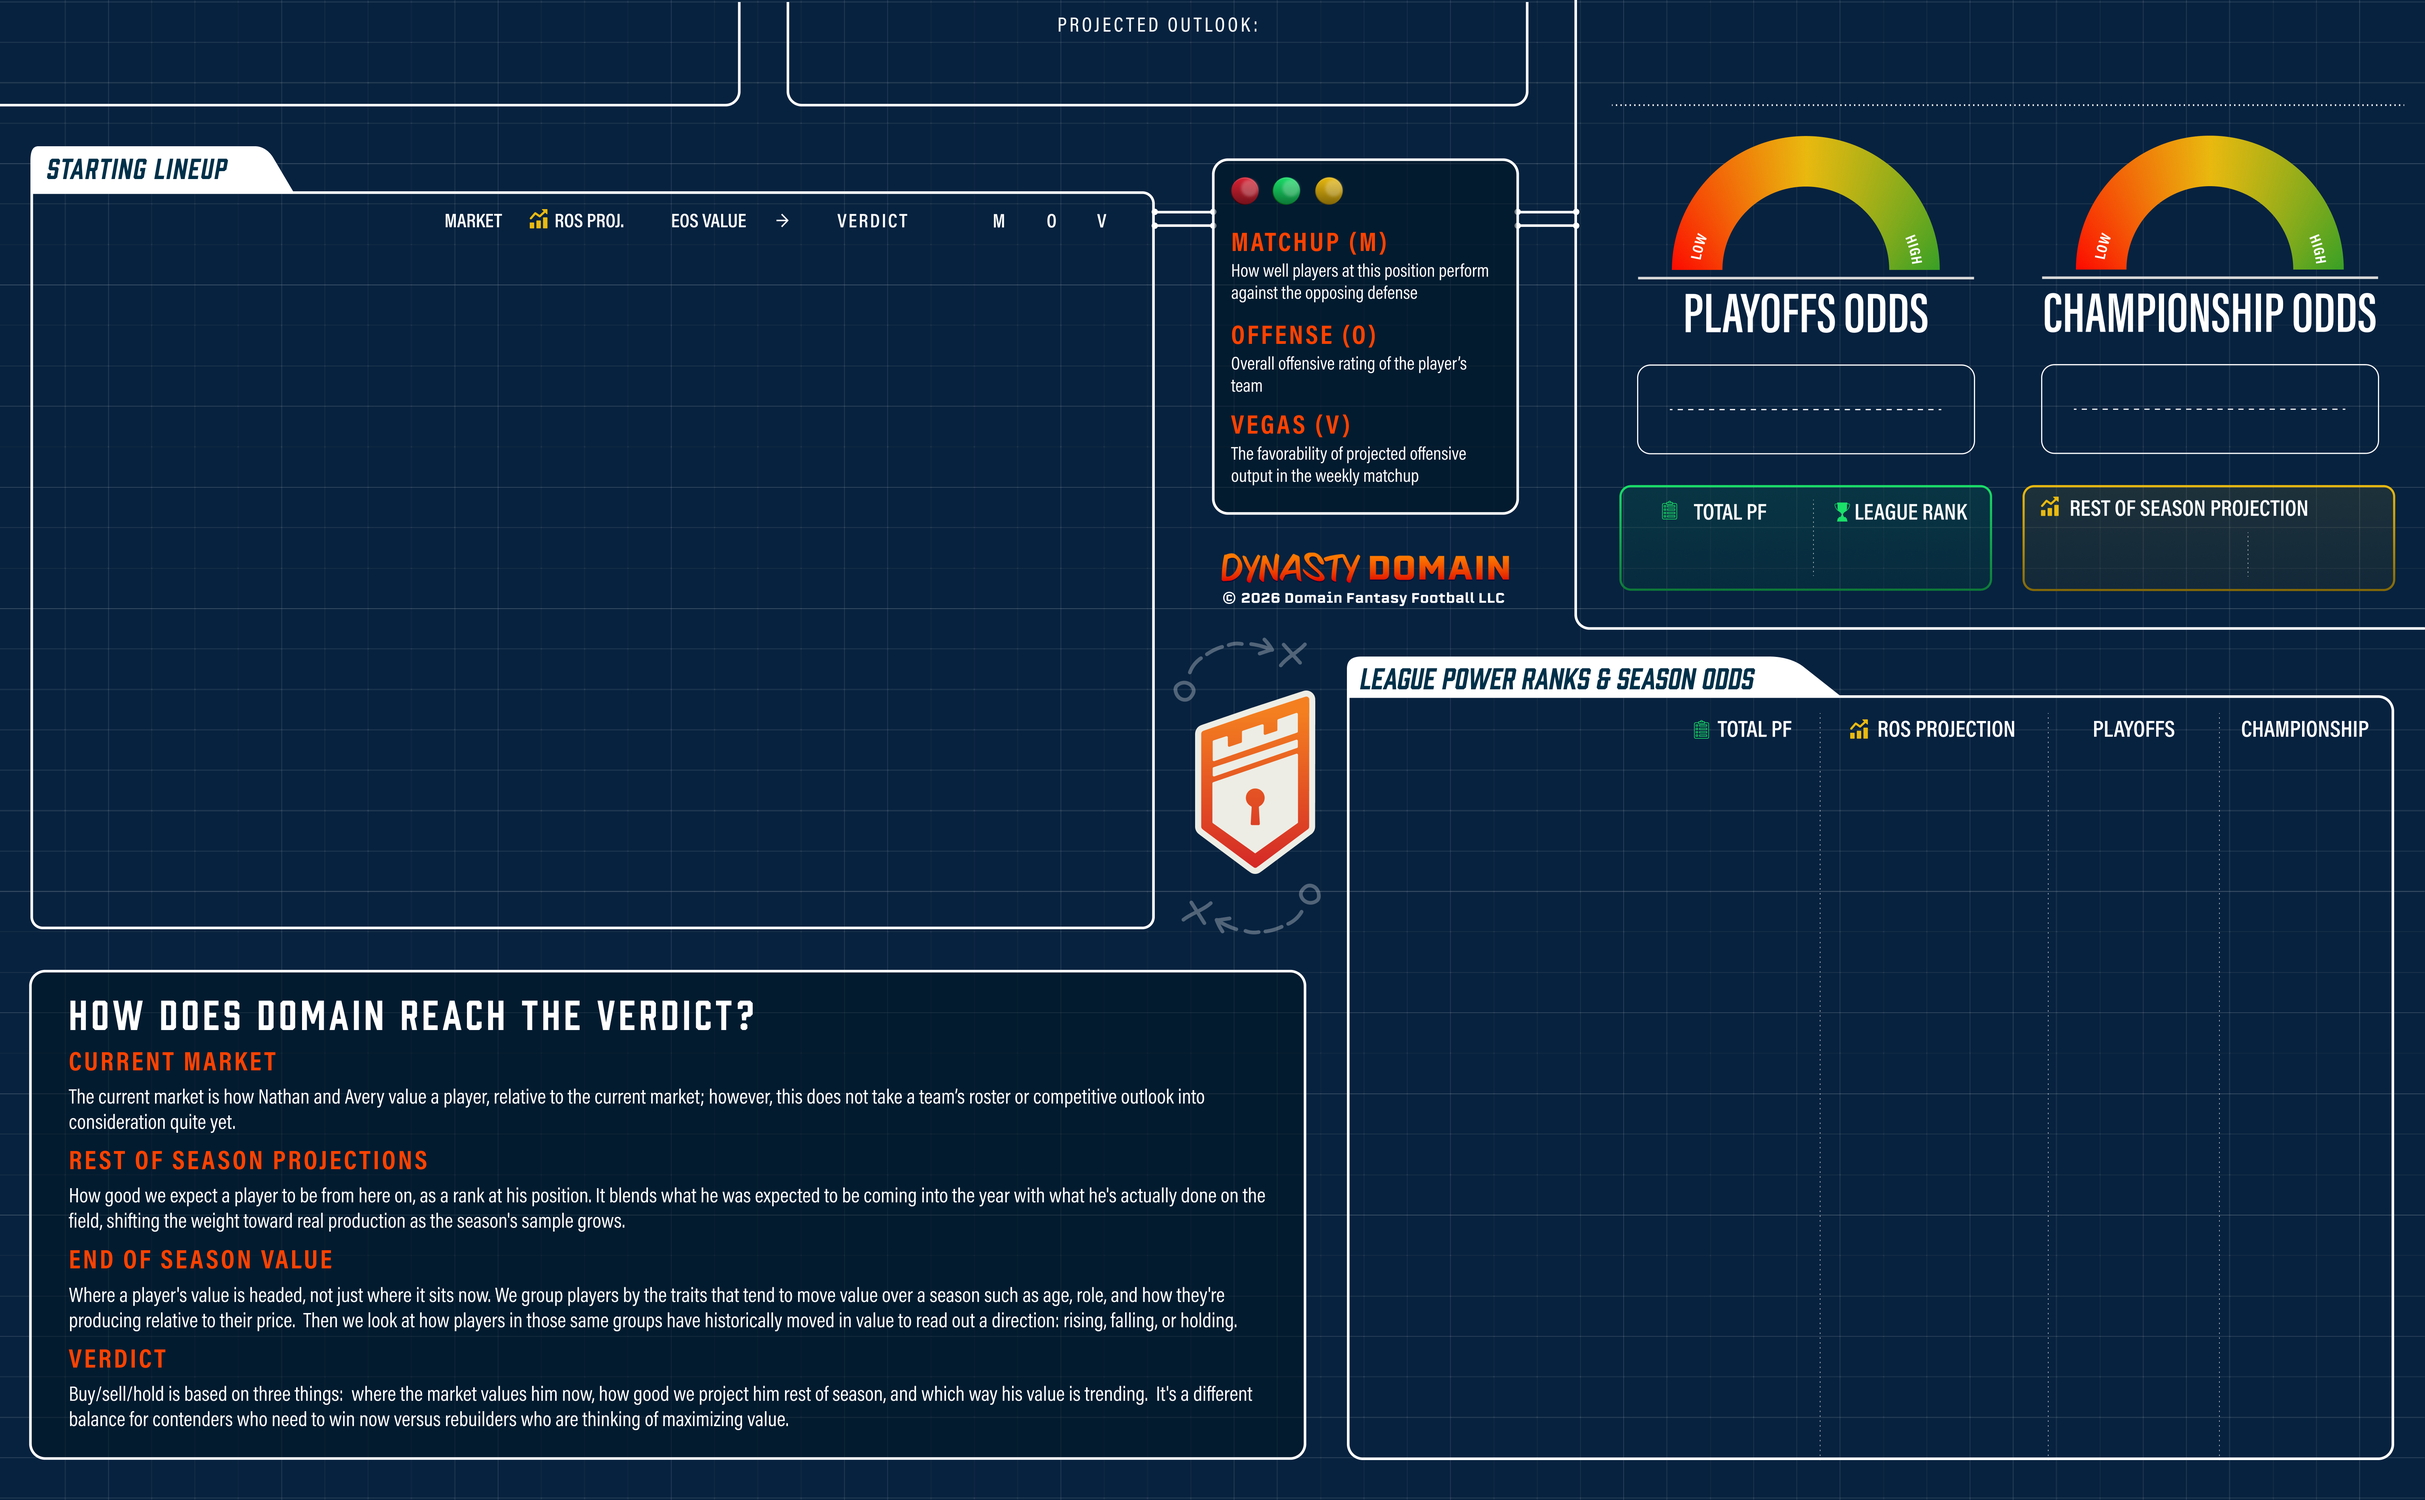
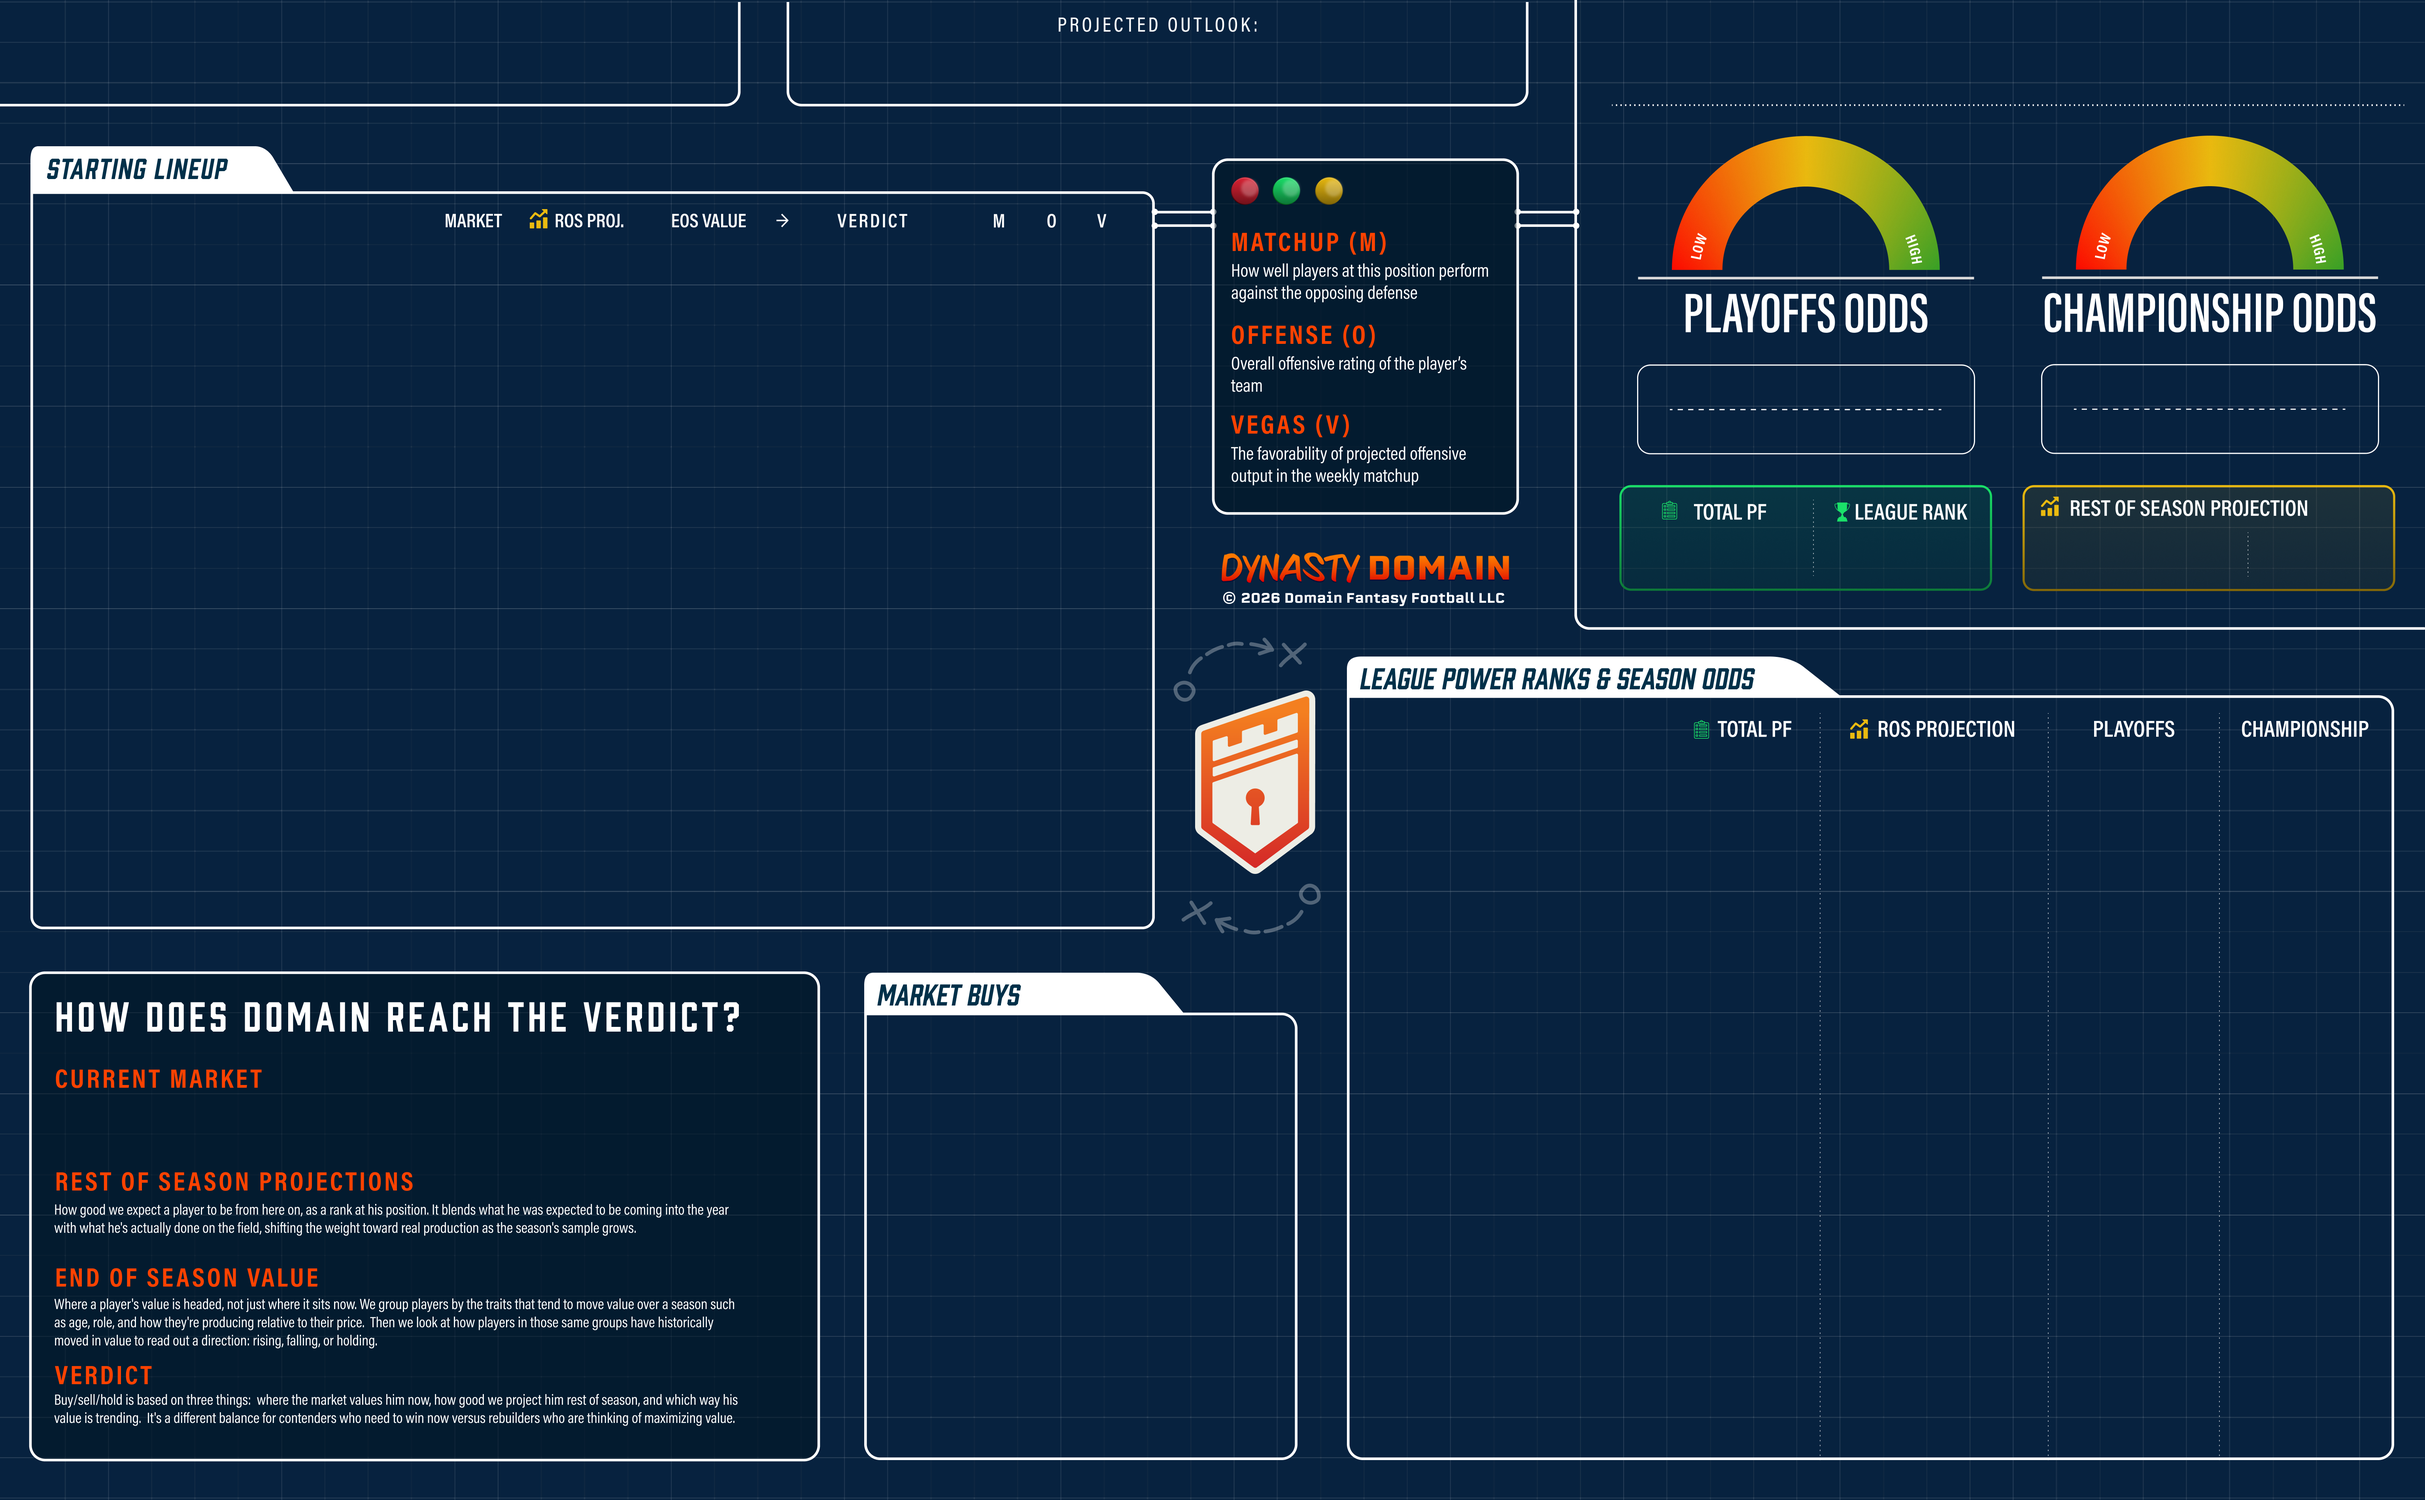
Market Buys

Changed region(s): [[0.0311, 0.653, 0.4982, 0.9639], [0.3425, 0.6219, 0.4982, 0.6841], [0.2491, 0.7152, 0.4982, 0.7462]]

diff --git a/src/InSeasonInfinite/InSeasonInfinite.tsx b/src/InSeasonInfinite/InSeasonInfinite.tsx
@@ -85,6 +85,17 @@ export interface PowerRankRow {
   isUserTeam?: boolean;
 }
 
+/** A "Market Buys" card: a random buy-tier player who is not on the roster. */
+export interface MarketBuy {
+  playerName: string;
+  playerSleeperBotId: number | null;
+  /** NFL position; drives the card colour and the "RB - VIKINGS" line. */
+  position: NflPosition;
+  teamAbbreviation: string | null;
+  /** Team nickname ("Vikings"); null renders the position alone. */
+  teamName: string | null;
+}
+
 export interface ChartSeries {
   position: NflPosition;
   values: (number | null)[];
@@ -113,6 +124,8 @@ export interface InSeasonInfinitePreviewProps {
   rosProjection: number | null;
   rosProjectionRank: number | null;
   powerRanks: PowerRankRow[];
+  /** Up to three cards; fewer (or none) when the week's pool is short. */
+  marketBuys: MarketBuy[];
   /**
    * Legacy position-value chart. The final design fills the verdict panel with copy and no
    * longer reserves a slot for it, so leave this unset: drawing it would overlay the paragraphs.
@@ -649,6 +662,68 @@ function VerdictChart({ chart }: { chart: ChartData }) {
   );
 }
 
+// ─── Verdict copy ───────────────────────────────────────────────────────────
+
+// The "How does Domain reach the verdict?" panel is baked into the background except
+// for this paragraph: the approved Current Market copy exists in Figma only at the old
+// 52.98px size (STATIC → "Current Market copy — HIDDEN") and the copy fonts are not
+// installed where the export runs, so it is set here in the web font at the re-flowed
+// 37.98px size. Bake it and delete this once that Figma node can be resized.
+const CURRENT_MARKET_COPY =
+  "The current market is how Nathan and Avery value a player, relative to the current market; however, this does not take a team’s roster or competitive outlook into consideration quite yet.";
+
+function VerdictCopy() {
+  return (
+    <p className={s.para} style={{ left: 137, top: 2805, width: 1735, fontFamily: F.acCond, fontSize: 37.98, color: C.white }}>
+      {CURRENT_MARKET_COPY}
+    </p>
+  );
+}
+
+// ─── Market buys ────────────────────────────────────────────────────────────
+
+// Three cards down the "Market Buys" panel: card x 2272, first top 2634, pitch 350. The
+// "+" badge overhangs the card's left edge by 34px. Chrome follows the player's position
+// colour; the team logo sits behind the headshot at 15%, cropped the way the Figma image
+// fill is (112.27% wide, offset -12.27%). Every tint is the position gradient at 20%.
+const MB = { x: 2272, top: 2634, pitch: 350, w: 923, h: 262.752, radius: 33.863, stroke: 4.724, badge: 95.532 };
+const MB_FILL: Record<NflPosition, string> = {
+  QB: "linear-gradient(180deg, rgba(219,35,53,0.2) 0%, rgba(117,19,28,0.2) 100%)",
+  RB: "linear-gradient(180deg, rgba(0,177,255,0.2) 0%, rgba(0,106,153,0.2) 100%)",
+  WR: "linear-gradient(180deg, rgba(26,224,105,0.2) 0%, rgba(14,122,57,0.2) 100%)",
+  TE: "linear-gradient(180deg, rgba(234,186,16,0.2) 0%, rgba(132,105,9,0.2) 100%)",
+};
+
+function MarketBuyCard({ buy, top }: { buy: MarketBuy; top: number }) {
+  const x = MB.x;
+  return (
+    <>
+      <div className={s.abs} style={{ left: x, top, width: MB.w, height: MB.h, borderRadius: MB.radius, overflow: "hidden", background: MB_FILL[buy.position] }}>
+        <div className={s.abs} style={{ left: 0, top: 4.21, width: 226.539, height: 254.33, overflow: "hidden", opacity: 0.15 }}>
+          <img src={teamLogos.get(buy.teamAbbreviation ?? "") ?? nflLogo} alt="" style={{ position: "absolute", left: "-12.27%", top: 0, width: "112.27%", height: "100%", objectFit: "contain" }} />
+        </div>
+        <img
+          className={s.img}
+          src={sleeperHeadshot(buy.playerSleeperBotId)}
+          onError={({ currentTarget }) => { currentTarget.onerror = null; currentTarget.src = HEADSHOT_FALLBACK; }}
+          alt=""
+          style={{ left: 53.056, top: 4.21, width: 346.967, height: 254.33, objectFit: "contain" }}
+        />
+        <div className={s.abs} style={{ inset: 0, borderRadius: MB.radius, border: `${MB.stroke}px solid ${POS_COLOR[buy.position]}`, boxSizing: "border-box" }} />
+      </div>
+      <Txt x={x + 344.68} y={top + 76.06} h={52} align="left" font={F.prohibition} size={67.096} upper>{buy.playerName}</Txt>
+      <Txt x={x + 414.34} y={top + 151.32} h={51.37} align="left" font={F.acXCond} size={67.096} weight={600} upper>
+        {buy.teamName ? `${buy.position} - ${buy.teamName}` : buy.position}
+      </Txt>
+      <img className={s.img} src={A.buyBadge} alt="" style={{ left: x - 34, top: top + 88, width: MB.badge, height: MB.badge }} />
+    </>
+  );
+}
+
+function MarketBuys({ rows }: { rows: MarketBuy[] }) {
+  return <>{rows.slice(0, 3).map((buy, i) => <MarketBuyCard key={i} buy={buy} top={MB.top + MB.pitch * i} />)}</>;
+}
+
 // ─── Composition ────────────────────────────────────────────────────────────
 
 export default function InSeasonInfinitePreview(p: InSeasonInfinitePreviewProps) {
@@ -661,6 +736,8 @@ export default function InSeasonInfinitePreview(p: InSeasonInfinitePreviewProps)
       <OddsPanelView p={p.championship} dx={1022} dy={-0.97} />
       <PfBoxes totalPf={p.totalPf} leagueRank={p.leagueRank} rosProjection={p.rosProjection} rosProjectionRank={p.rosProjectionRank} />
       <PowerRanks rows={p.powerRanks} />
+      <VerdictCopy />
+      <MarketBuys rows={p.marketBuys} />
       {p.chart && <VerdictChart chart={p.chart} />}
     </div>
   );

diff --git a/src/InSeasonInfinite/buildInSeasonInfiniteProps.ts b/src/InSeasonInfinite/buildInSeasonInfiniteProps.ts
@@ -8,6 +8,7 @@ import type {
   Blueprint,
   InSeasonInfiniteFeatures,
   InSeasonInfiniteLineupSlot,
+  InSeasonInfiniteMarketBuy,
   InSeasonInfiniteOddsPoint,
   InSeasonInfinitePowerRank,
 } from "../hooks/hooks";
@@ -17,6 +18,7 @@ import type {
   Light,
   LineupRow,
   LineupSlot,
+  MarketBuy,
   NflPosition,
   OddsPanel,
   Outlook,
@@ -140,6 +142,16 @@ function oddsPanel(
   };
 }
 
+function marketBuy(m: InSeasonInfiniteMarketBuy): MarketBuy {
+  return {
+    playerName: m.playerName,
+    playerSleeperBotId: m.playerSleeperBotId,
+    position: (NFL_POSITIONS as string[]).includes(m.position) ? (m.position as NflPosition) : "WR",
+    teamAbbreviation: m.teamAbbreviation,
+    teamName: m.teamName,
+  };
+}
+
 function powerRankRow(r: InSeasonInfinitePowerRank, leagueSize: number): PowerRankRow {
   return {
     rank: r.rank,
@@ -176,6 +188,7 @@ export function buildInSeasonInfiniteProps(bp: Blueprint): InSeasonInfinitePrevi
       rosProjection: null,
       rosProjectionRank: null,
       powerRanks: [],
+      marketBuys: [],
     };
   }
 
@@ -208,6 +221,7 @@ export function buildInSeasonInfiniteProps(bp: Blueprint): InSeasonInfinitePrevi
     rosProjection: round(f.rosProjection),
     rosProjectionRank: f.rosProjectionLeagueRank,
     powerRanks: [...f.powerRanks].sort((a, b) => a.rank - b.rank).map((r) => powerRankRow(r, leagueSize)),
+    marketBuys: [...f.marketBuys].sort((a, b) => a.sortOrder - b.sortOrder).map(marketBuy),
     // chart: intentionally unset — the final design fills the verdict panel with copy and has no chart slot.
   };
 }

diff --git a/src/hooks/hooks.tsx b/src/hooks/hooks.tsx
@@ -400,6 +400,21 @@ export type InSeasonInfiniteFeatures = {
     lineupSlots: InSeasonInfiniteLineupSlot[];
     powerRanks: InSeasonInfinitePowerRank[];
     oddsHistory: InSeasonInfiniteOddsPoint[];
+    marketBuys: InSeasonInfiniteMarketBuy[];
+};
+
+/** A "Market Buys" card: a random buy-tier player who is not on the roster. */
+export type InSeasonInfiniteMarketBuy = {
+    id: number;
+    sortOrder: number;
+    playerId: number;
+    playerSleeperBotId: number | null;
+    playerName: string;
+    position: string;
+    teamAbbreviation: string | null;
+    /** Team nickname ("Vikings"). */
+    teamName: string | null;
+    verdict: InSeasonVerdict;
 };
 
 export function useBlueprint(blueprintId: string) {

diff --git a/src/InSeasonInfinite/inSeasonInfiniteAssets.ts b/src/InSeasonInfinite/inSeasonInfiniteAssets.ts
@@ -26,8 +26,10 @@ import chartLegendQb from "../assets/inSeasonInfinite/chart-legend-qb.svg";
 import chartLegendRb from "../assets/inSeasonInfinite/chart-legend-rb.svg";
 import chartLegendWr from "../assets/inSeasonInfinite/chart-legend-wr.svg";
 import chartLegendTe from "../assets/inSeasonInfinite/chart-legend-te.svg";
+import buyBadge from "../assets/inSeasonInfinite/buy-badge.svg";
 
 export {
+  buyBadge,
   trophy,
   lossX,
   marketBadge,

diff --git a/src/InSeasonInfinite/InSeasonInfinite.module.css b/src/InSeasonInfinite/InSeasonInfinite.module.css
@@ -63,6 +63,15 @@
     white-space: nowrap;
 }
 
+/* A wrapping, top-aligned Figma paragraph: the first line box starts at the node's
+   top edge, so no cap trimming here. */
+.para {
+    position: absolute;
+    margin: 0;
+    white-space: normal;
+    line-height: normal;
+}
+
 .gradientText {
     background-clip: text;
     -webkit-background-clip: text;
